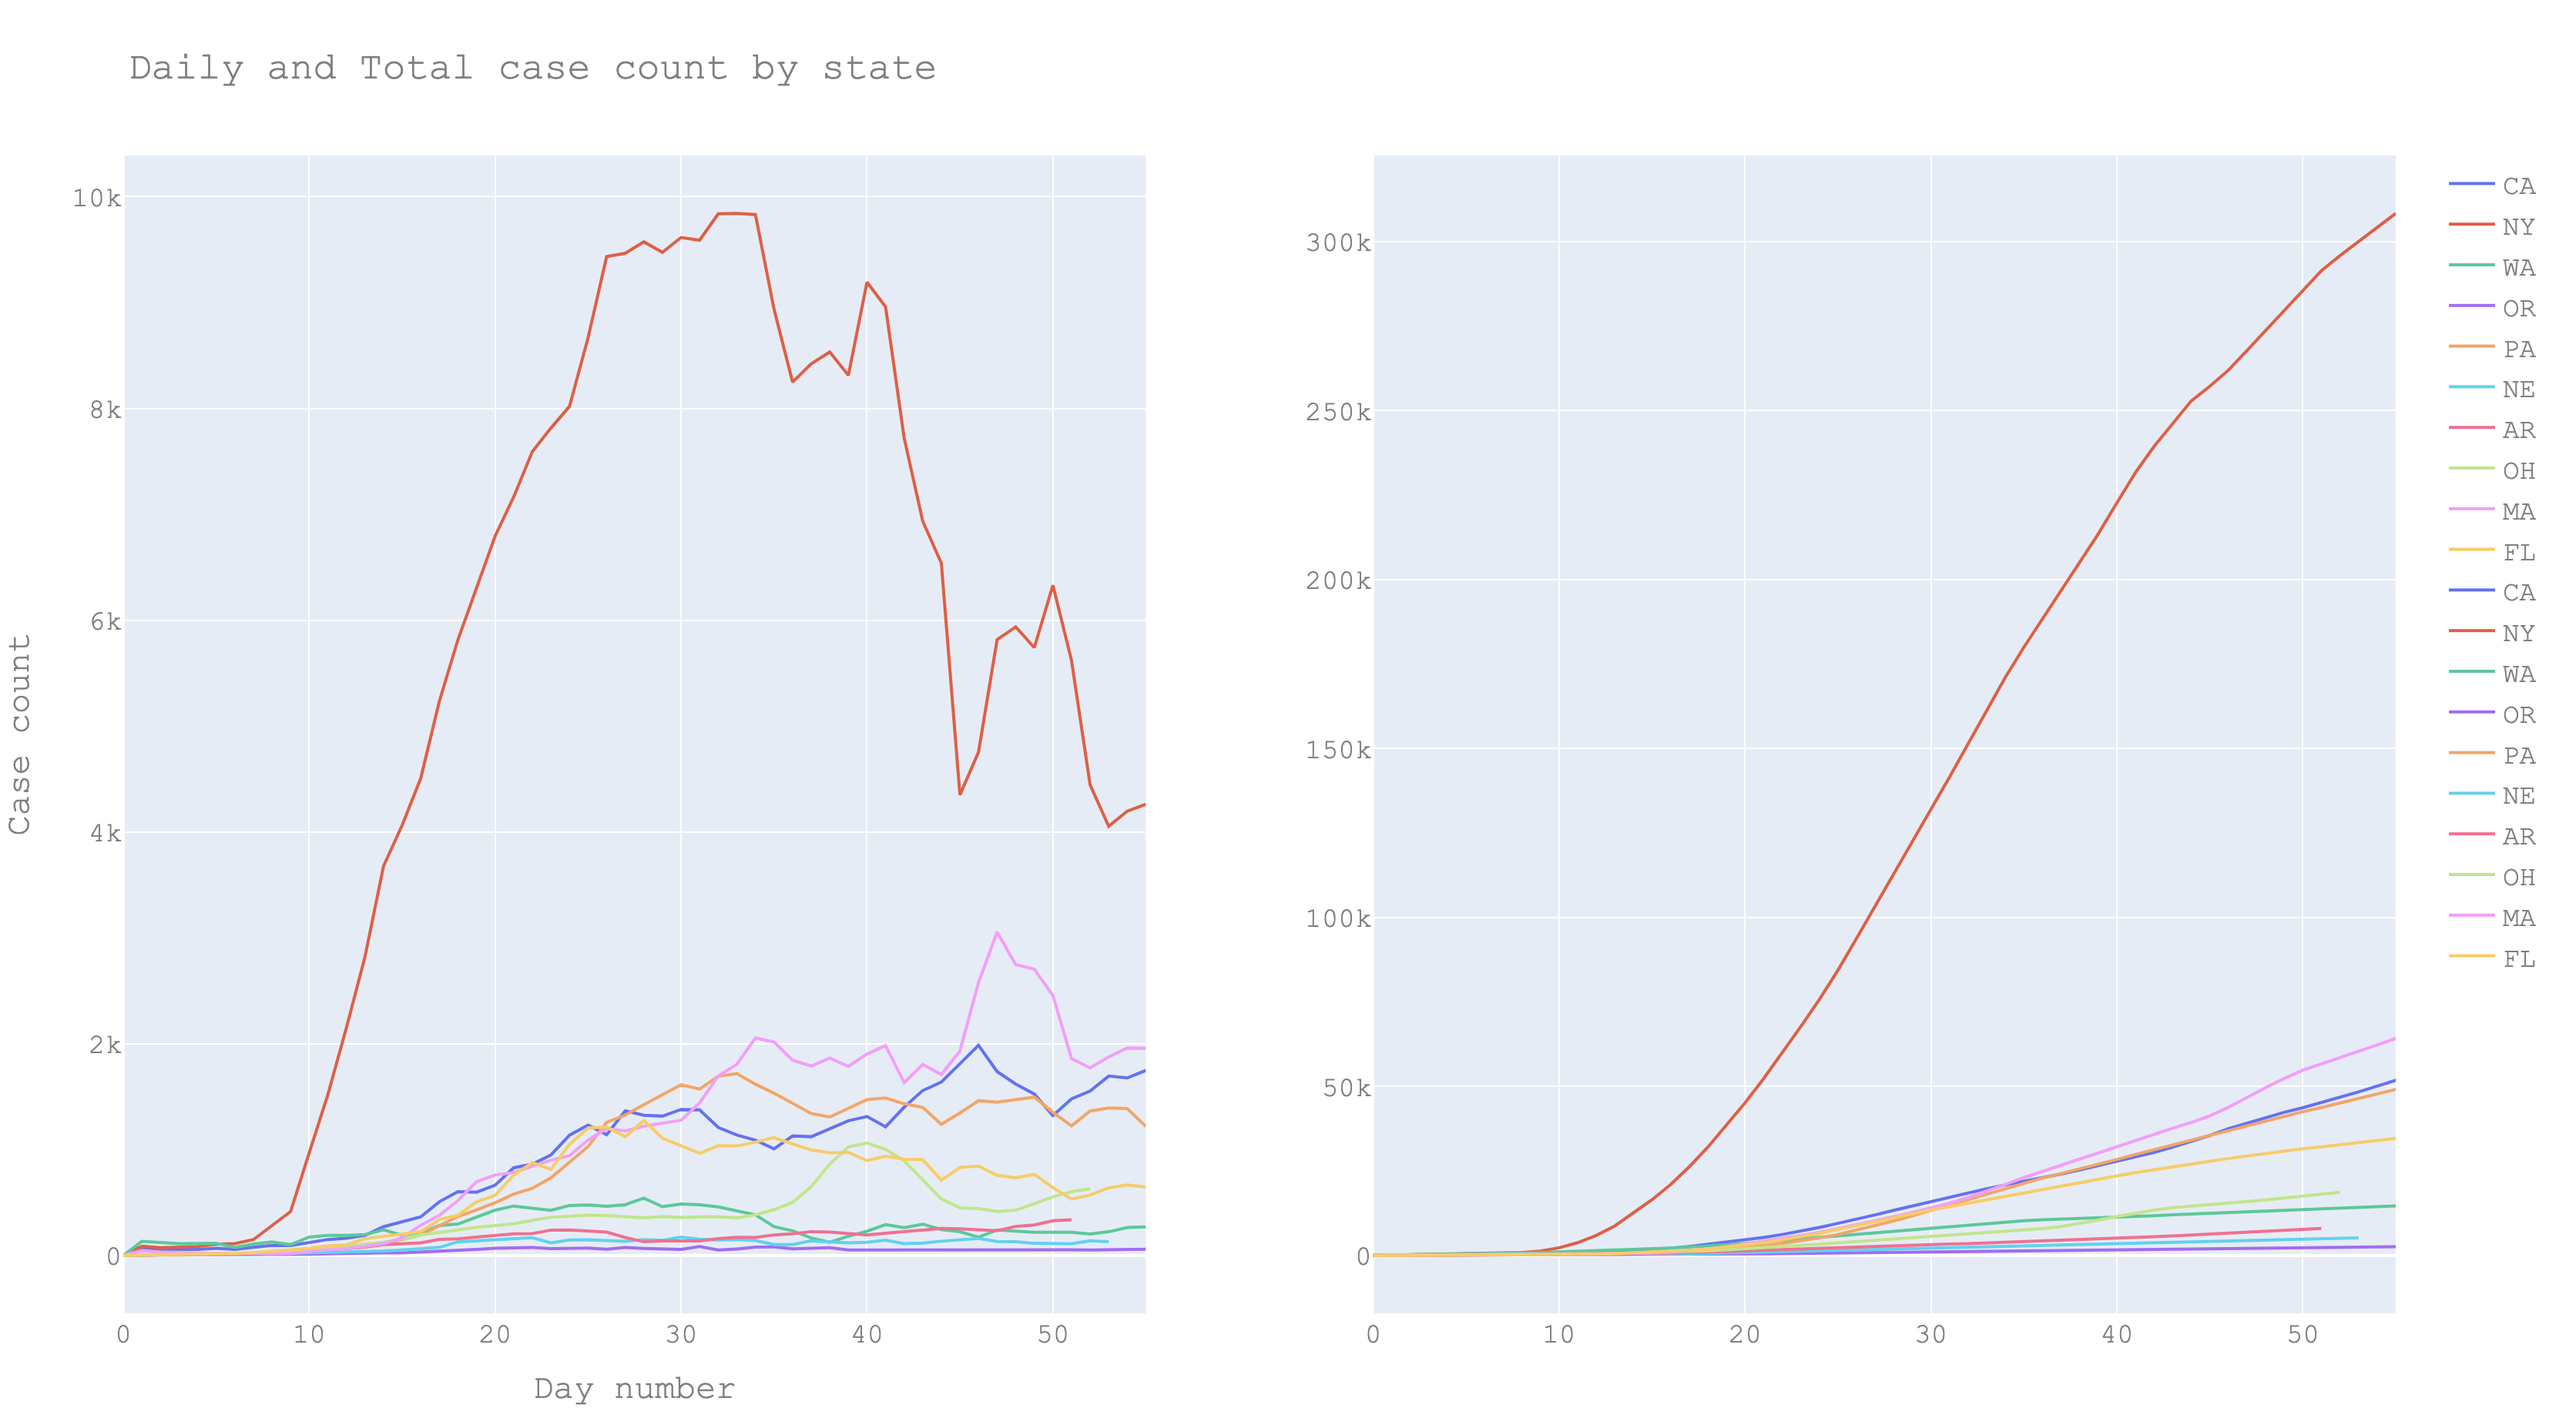
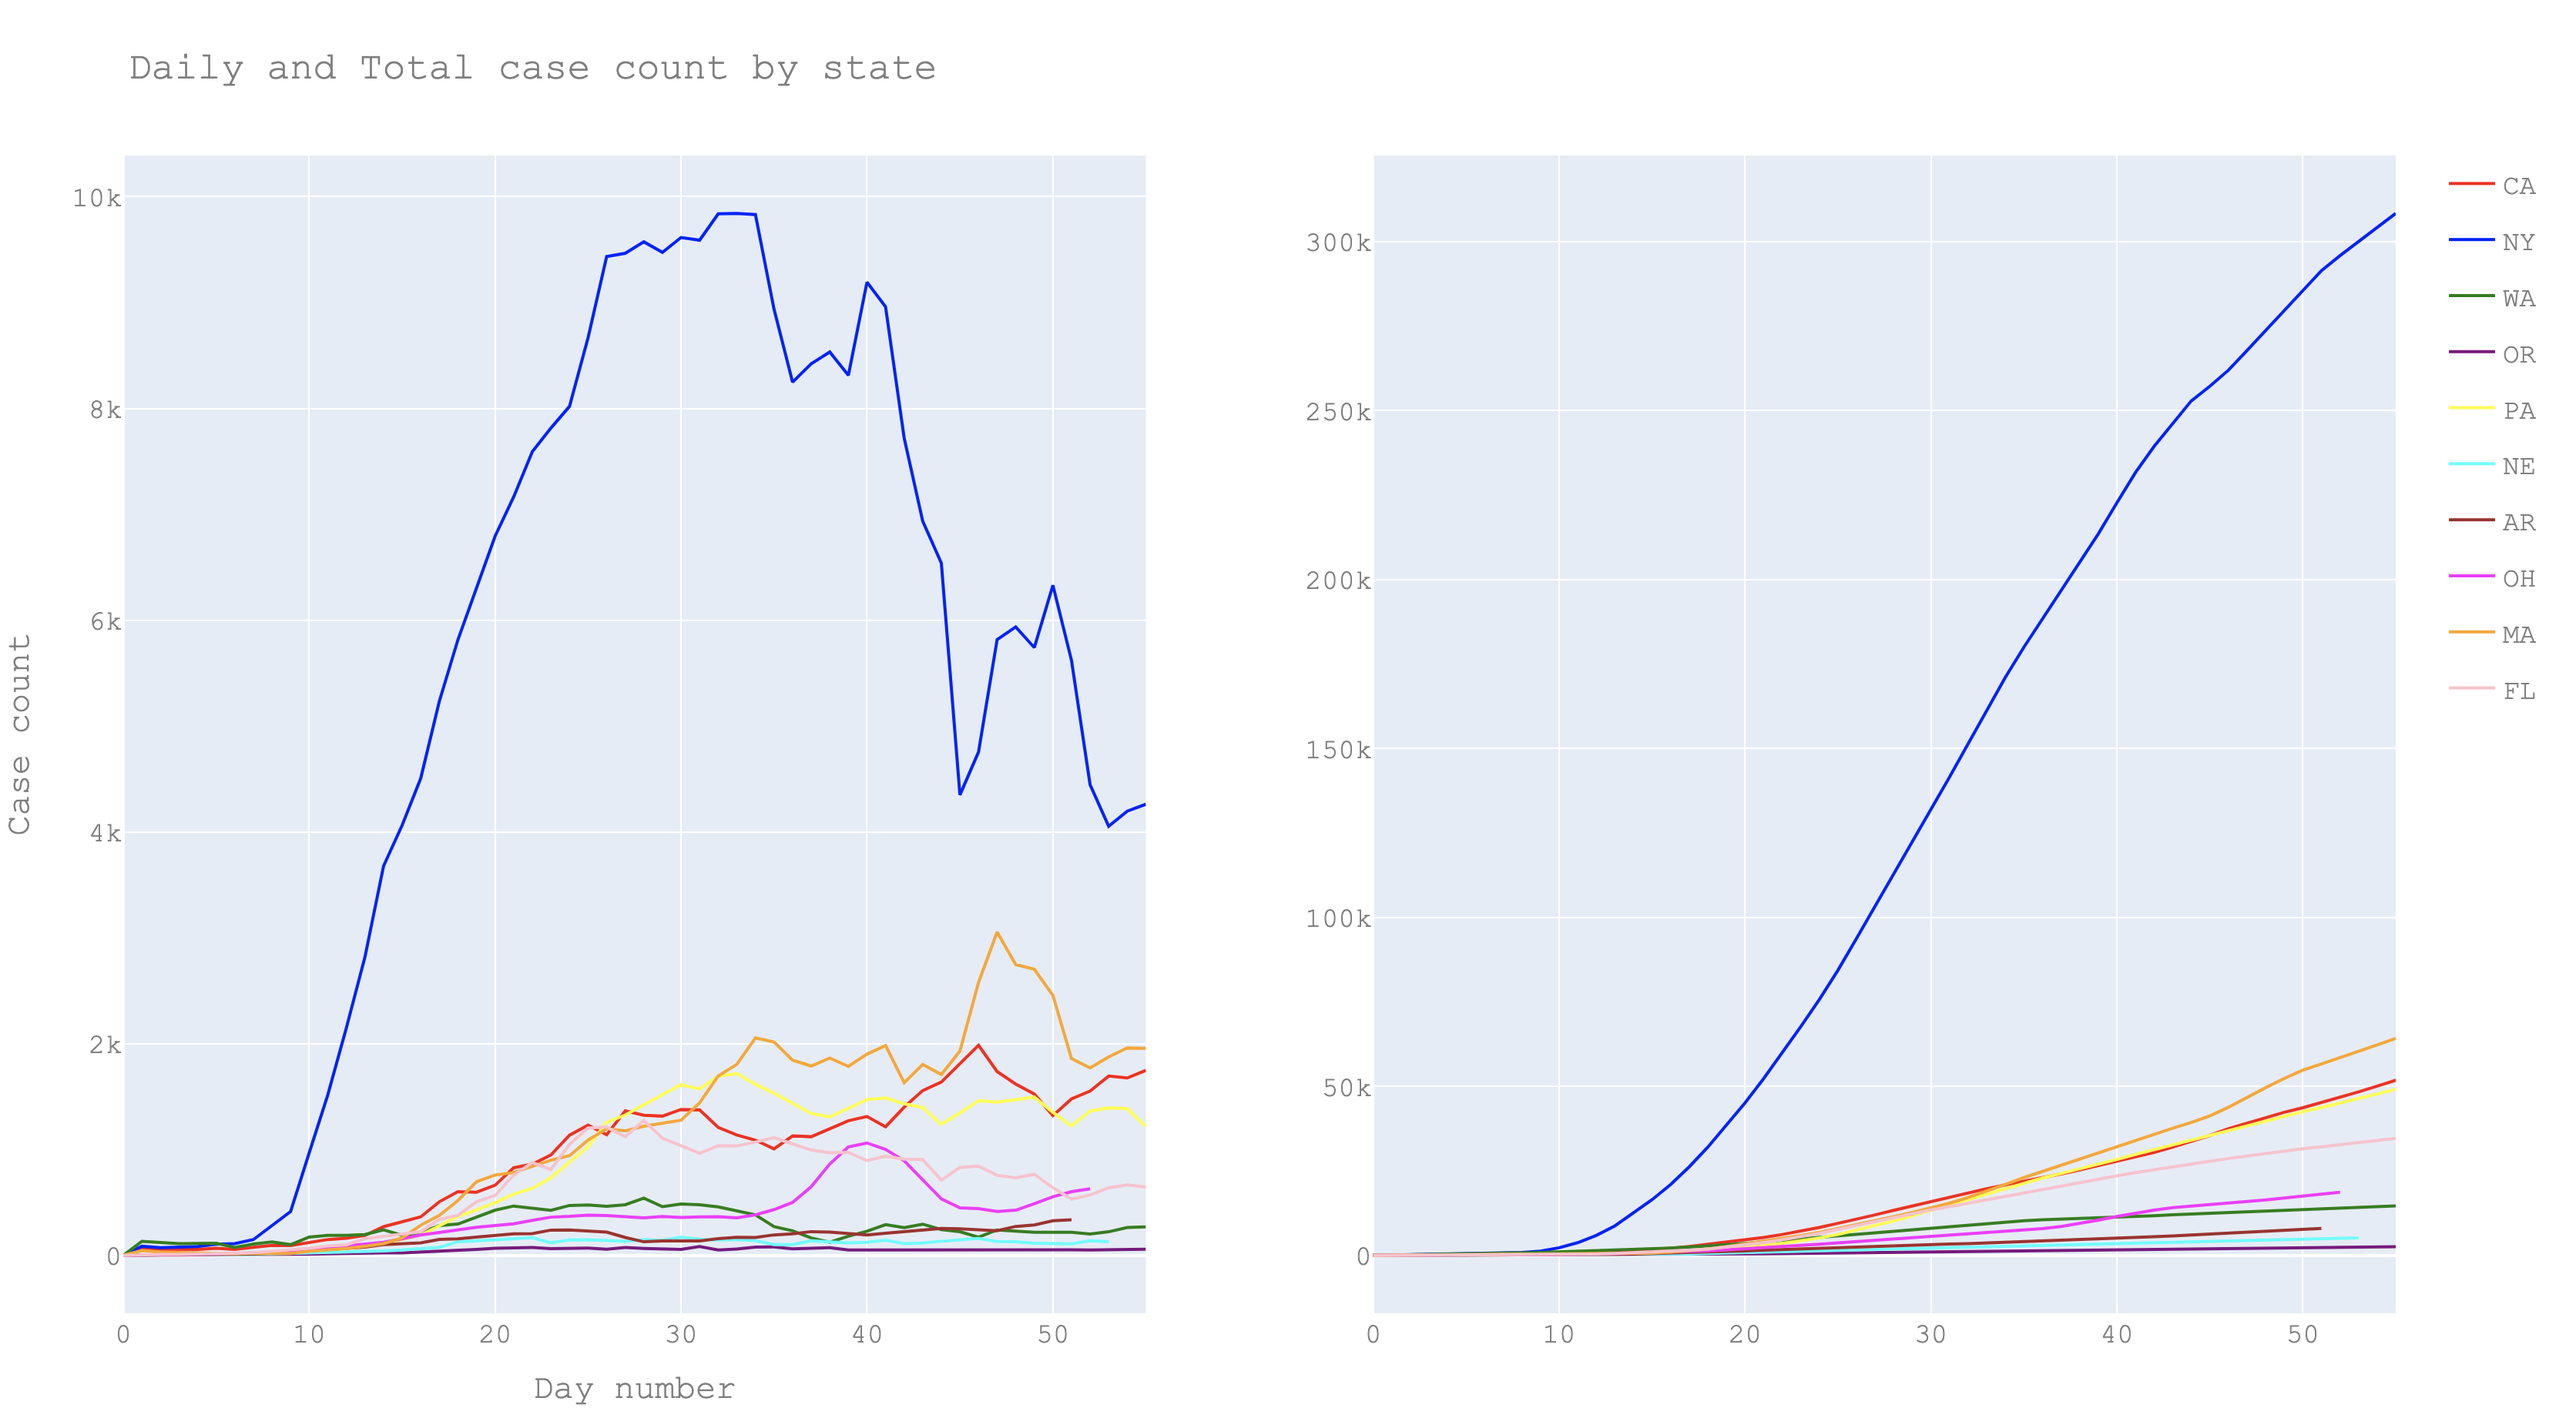
fix groupings in legend

diff --git a/case_counts/us_states_analysis.py b/case_counts/us_states_analysis.py
@@ -171,26 +171,46 @@ def main():
             color="#7f7f7f"
         )
     )
-    fig.add_scatter(x=cadf.day_no, y=cadf.daily_cases, name='CA', row=1, col=1)
-    fig.add_scatter(x=nydf.day_no, y=nydf.daily_cases, name='NY', row=1, col=1)
-    fig.add_scatter(x=wadf.day_no, y=wadf.daily_cases, name='WA', row=1, col=1)
-    fig.add_scatter(x=ordf.day_no, y=ordf.daily_cases, name='OR', row=1, col=1)
-    fig.add_scatter(x=padf.day_no, y=padf.daily_cases, name='PA', row=1, col=1)
-    fig.add_scatter(x=nedf.day_no, y=nedf.daily_cases, name='NE', row=1, col=1)
-    fig.add_scatter(x=ardf.day_no, y=ardf.daily_cases, name='AR', row=1, col=1)
-    fig.add_scatter(x=ohdf.day_no, y=ohdf.daily_cases, name='OH', row=1, col=1)
-    fig.add_scatter(x=madf.day_no, y=madf.daily_cases, name='MA', row=1, col=1)
-    fig.add_scatter(x=fldf.day_no, y=fldf.daily_cases, name='FL', row=1, col=1)
+    fig.add_scatter(x=cadf.day_no, y=cadf.daily_cases, name='CA', legendgroup='CA',
+                    line=dict(color="red"), row=1, col=1)
+    fig.add_scatter(x=nydf.day_no, y=nydf.daily_cases, name='NY', legendgroup='NY',
+                    line=dict(color="blue"), row=1, col=1)
+    fig.add_scatter(x=wadf.day_no, y=wadf.daily_cases, name='WA', legendgroup='WA',
+                    line=dict(color="green"), row=1, col=1)
+    fig.add_scatter(x=ordf.day_no, y=ordf.daily_cases, name='OR', legendgroup='OR',
+                    line=dict(color="purple"), row=1, col=1)
+    fig.add_scatter(x=padf.day_no, y=padf.daily_cases, name='PA', legendgroup='PA',
+                    line=dict(color="yellow"), row=1, col=1)
+    fig.add_scatter(x=nedf.day_no, y=nedf.daily_cases, name='NE', legendgroup='NE',
+                    line=dict(color="cyan"), row=1, col=1)
+    fig.add_scatter(x=ardf.day_no, y=ardf.daily_cases, name='AR', legendgroup='AR',
+                    line=dict(color="brown"), row=1, col=1)
+    fig.add_scatter(x=ohdf.day_no, y=ohdf.daily_cases, name='OH', legendgroup='OH',
+                    line=dict(color="magenta"), row=1, col=1)
+    fig.add_scatter(x=madf.day_no, y=madf.daily_cases, name='MA', legendgroup='MA',
+                    line=dict(color="orange"), row=1, col=1)
+    fig.add_scatter(x=fldf.day_no, y=fldf.daily_cases, name='FL', legendgroup='FL',
+                    line=dict(color="pink"), row=1, col=1)
 
-    fig.add_scatter(x=cadf.day_no, y=cadf.total_cases, name='CA', row=1, col=2)
-    fig.add_scatter(x=nydf.day_no, y=nydf.total_cases, name='NY', row=1, col=2)
-    fig.add_scatter(x=wadf.day_no, y=wadf.total_cases, name='WA', row=1, col=2)
-    fig.add_scatter(x=ordf.day_no, y=ordf.total_cases, name='OR', row=1, col=2)
-    fig.add_scatter(x=padf.day_no, y=padf.total_cases, name='PA', row=1, col=2)
-    fig.add_scatter(x=nedf.day_no, y=nedf.total_cases, name='NE', row=1, col=2)
-    fig.add_scatter(x=ardf.day_no, y=ardf.total_cases, name='AR', row=1, col=2)
-    fig.add_scatter(x=ohdf.day_no, y=ohdf.total_cases, name='OH', row=1, col=2)
-    fig.add_scatter(x=madf.day_no, y=madf.total_cases, name='MA', row=1, col=2)
-    fig.add_scatter(x=fldf.day_no, y=fldf.total_cases, name='FL', row=1, col=2)
-    fig.write_image("case_counts/figures/states_case_counts.png")
-    # fig.show()
+    fig.add_scatter(x=cadf.day_no, y=cadf.total_cases, name='CA', legendgroup='CA',
+                    showlegend=False, line=dict(color="red"), row=1, col=2)
+    fig.add_scatter(x=nydf.day_no, y=nydf.total_cases, name='NY', legendgroup='NY',
+                    showlegend=False, line=dict(color="blue"), row=1, col=2)
+    fig.add_scatter(x=wadf.day_no, y=wadf.total_cases, name='WA', legendgroup='WA',
+                    showlegend=False, line=dict(color="green"), row=1, col=2)
+    fig.add_scatter(x=ordf.day_no, y=ordf.total_cases, name='OR', legendgroup='OR',
+                    showlegend=False, line=dict(color="purple"), row=1, col=2)
+    fig.add_scatter(x=padf.day_no, y=padf.total_cases, name='PA', legendgroup='PA',
+                    showlegend=False, line=dict(color="yellow"), row=1, col=2)
+    fig.add_scatter(x=nedf.day_no, y=nedf.total_cases, name='NE', legendgroup='NE',
+                    showlegend=False, line=dict(color="cyan"), row=1, col=2)
+    fig.add_scatter(x=ardf.day_no, y=ardf.total_cases, name='AR', legendgroup='AR',
+                    showlegend=False, line=dict(color="brown"), row=1, col=2)
+    fig.add_scatter(x=ohdf.day_no, y=ohdf.total_cases, name='OH', legendgroup='OH',
+                    showlegend=False, line=dict(color="magenta"), row=1, col=2)
+    fig.add_scatter(x=madf.day_no, y=madf.total_cases, name='MA', legendgroup='MA',
+                    showlegend=False, line=dict(color="orange"), row=1, col=2)
+    fig.add_scatter(x=fldf.day_no, y=fldf.total_cases, name='FL', legendgroup='FL',
+                    showlegend=False, line=dict(color="pink"), row=1, col=2)
+    # fig.write_image("case_counts/figures/states_case_counts.png")
+    fig.show()
